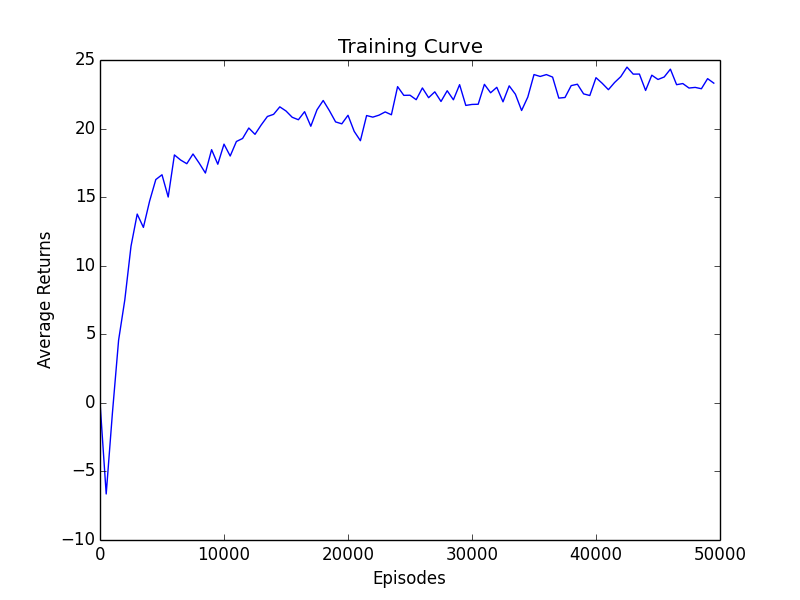
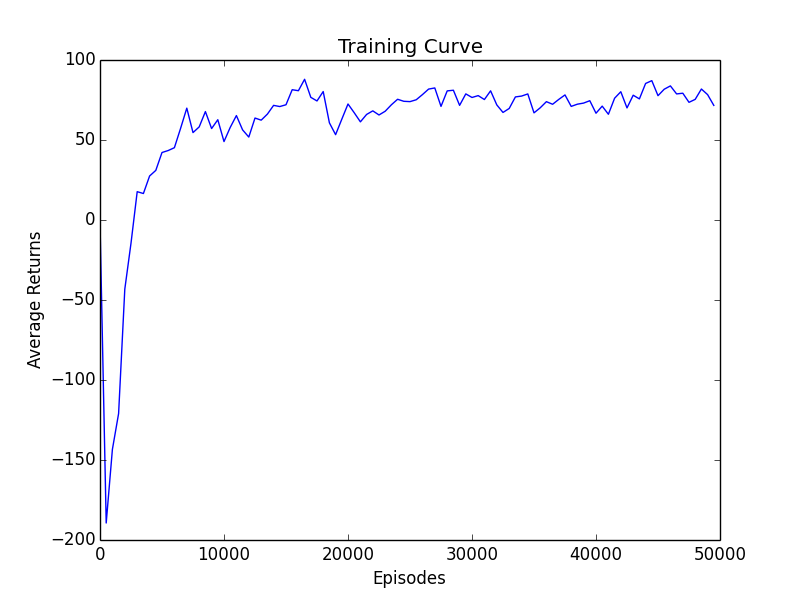
p5 almost

diff --git a/A4/Soln/tictactoe.py b/A4/Soln/tictactoe.py
@@ -12,6 +12,7 @@ import torch.distributions
 from torch.autograd import Variable
 import matplotlib.pyplot as plt
 
+
 class Environment(object):
     """
     The Tic-Tac-Toe Environment
@@ -118,7 +119,7 @@ class Policy(nn.Module):
             nn.Linear(input_size, hidden_size),
             nn.ReLU(),
             nn.Linear(hidden_size, output_size),
-            nn.Softmax(dim = output_size)
+            nn.Softmax()
         )
 
     def forward(self, x):
@@ -191,14 +192,14 @@ def get_reward(status):
     """Returns a numeric given an environment status."""
     return {
         Environment.STATUS_VALID_MOVE: 5,  # TODO
-        Environment.STATUS_INVALID_MOVE: -5,
-        Environment.STATUS_WIN: 10,
-        Environment.STATUS_TIE: 1,
-        Environment.STATUS_LOSE: -10
+        Environment.STATUS_INVALID_MOVE: -50,
+        Environment.STATUS_WIN: 100,
+        Environment.STATUS_TIE: -10,
+        Environment.STATUS_LOSE: -100
     }[status]
 
 
-def train(policy, env, lr = 0.001, gamma = 1.0, max_iter = 50000, plot = False):
+def train(policy, env, lr = 0.0005, gamma = 0.9, max_iter = 50000, verbose = True, plot = False, save_policy = True):
     """Train policy gradient."""
     optimizer = optim.Adam(policy.parameters(), lr = lr)
     scheduler = torch.optim.lr_scheduler.StepLR(
@@ -219,6 +220,7 @@ def train(policy, env, lr = 0.001, gamma = 1.0, max_iter = 50000, plot = False):
     for i_episode in range(max_iter):
         saved_rewards = []
         saved_logprobs = []
+
         state = env.reset()
         done = False
         while not done:
@@ -235,14 +237,17 @@ def train(policy, env, lr = 0.001, gamma = 1.0, max_iter = 50000, plot = False):
 
         if i_episode % log_interval == 0:
             avg_return = running_reward / log_interval
-            print('Episode {}\tAverage return: {:.2f}'.format(i_episode, avg_return))
+            if verbose:
+                results = play_games(env, policy)
+                print('Episode {}\t'
+                      'Average return: {:.2f}'
+                      '\tInvalid: {:.4f}'.format(i_episode, avg_return, results[-1]))
             running_reward = 0
             iters.append(i_episode)
             avg_returns.append(avg_return)
 
-        if i_episode % log_interval == 0:
-            torch.save(policy.state_dict(),
-                       "ttt/policy-%d.pkl" % i_episode)
+            if save_policy:
+                torch.save(policy.state_dict(), "ttt/policy-%d.pkl" % i_episode)
 
         if i_episode % 1 == 0:  # batch_size
             optimizer.step()
@@ -250,6 +255,8 @@ def train(policy, env, lr = 0.001, gamma = 1.0, max_iter = 50000, plot = False):
             optimizer.zero_grad()
 
     print("{} Done Training {}".format("=" * 20, "=" * 20))
+    result = play_games(env, policy, 1000)
+    print("Result: {} / {} / {}".format(result[0], result[1], result[2]))
 
     if plot:
         plt.plot(iters, avg_returns, color = "b")
@@ -257,7 +264,7 @@ def train(policy, env, lr = 0.001, gamma = 1.0, max_iter = 50000, plot = False):
         plt.xlabel("Episodes")
         plt.title("Training Curve")
         plt.savefig("./Report/images/5/training_curve.png")
-        plt.show()
+        # plt.show()
     return
 
 
@@ -276,7 +283,7 @@ def load_weights(policy, episode):
     policy.load_state_dict(weights)
 
 
-def get_policy_result(env, policy, rounds):
+def play_games(env, policy, rounds = 100, visualize = False):
     """
     Get the policy results by playing rounds and count the results
     :param env: the environment
@@ -289,6 +296,7 @@ def get_policy_result(env, policy, rounds):
     :rtype: tuple
     """
     num_policy_win, num_rand_win, num_tie = 0, 0, 0
+    total_move, invalid_move = 0, 0
 
     for i in range(rounds):
         state = env.reset()
@@ -296,6 +304,11 @@ def get_policy_result(env, policy, rounds):
         while not done:
             action, logprob = select_action(policy, state)
             state, status, done = env.play_against_random(action)
+            if status == Environment.STATUS_INVALID_MOVE:
+                invalid_move += 1
+            total_move += 1
+            if visualize:
+                env.render()
 
         if status == Environment.STATUS_WIN:
             num_policy_win += 1
@@ -307,7 +320,7 @@ def get_policy_result(env, policy, rounds):
             print("Wrong status: {}".format(status))
             return
 
-    return num_policy_win, num_rand_win, num_tie
+    return num_policy_win, num_rand_win, num_tie, invalid_move / float(total_move)
 
 
 # ==================== Answers ====================
@@ -335,26 +348,52 @@ def part3():
     doctest.testmod()
     return
 
+
 def part4():
     return
 
 
-def part5():
-    train(policy, env, gamma = 1.0, max_iter = 50000, plot = True)
+def part5(env, policy):
+    # a
+    train(policy, env, gamma = 0.9, max_iter = 50000, plot = True)
+    # b
+    best = []
+    for hidden_dim in [32, 64, 128, 256]:
+        test_env = Environment()
+        test_policy = Policy(hidden_size = hidden_dim)
+        train(test_policy, test_env, gamma = 0.9, max_iter = 50000, verbose = False,
+              plot = False, save_policy = False)
+        results = play_games(test_env, test_policy, rounds = 1000)
+        best.append(results)
+    print([32, 64, 128, 256], best)
+    # c
+    # train(policy, env, gamma = 0.9, max_iter = 50000, plot = True)
+    # d
+    results = play_games(env, policy, rounds = 100)
+    print("win: {}, lose: {}, tie: {}", results[0], results[1], results[2])
+    for i in range(5):
+        print("{} Game {} {}".format("=" * 20, i, "=" * 20))
+        play_games(env, policy, rounds = 1, visualize = True)
     return
 
 
 if __name__ == '__main__':
     import sys
 
-    policy = Policy()
+    # Set seeds
+    np.random.seed(59)
+    random.seed(59)
+    torch.manual_seed(59)
+
+    # Initialize env and policy
     env = Environment()
+    policy = Policy()
 
     # part1(env)
     # part2()
     # part3()
     # part4()
-    part5()
+    part5(env, policy)
 
     # if len(sys.argv) == 1:
     #     # `python tictactoe.py` to train the agent

diff --git a/A4/Soln/Report/tictactoe.tex b/A4/Soln/Report/tictactoe.tex
@@ -257,6 +257,7 @@ def compute_returns(rewards, gamma = 1.0):
 	\begin{homeworkProblem}
 		%		\noindent \textit{Question}
 		\begin{enumerate}
+%			TODO
 			\item 
 			See tictactoe.py for implementations.
 			
@@ -285,7 +286,7 @@ def compute_returns(rewards, gamma = 1.0):
 		%		\noindent \textit{Question}
 		\begin{enumerate}
 			\item 
-			The training curve is shown in Fig.\ref{fig:5}. The hyperparameters are as follows: lr = 0.001, gamma = 1.0, max\_iter = 50000
+			The training curve is shown in Fig.\ref{fig:5}. The hyperparameters are as follows: lr = 0.001, gamma = 0.9, max\_iter = 50000. We set gamma to 0.9 to get a smoother and quicker result
 		
 			\begin{figure}[!ht]
 				\centering
@@ -295,10 +296,11 @@ def compute_returns(rewards, gamma = 1.0):
 			\end{figure}
 			
 			\item 
+			The hidden dimension was tested on values [32, 64, 128, 256]. Their results were calculated using function get\_policy\_result. The best-performing dimension was {}. It has {} wins out of 1000 round.
 			
 			
 			\item 
-			
+			The policy starts to understand not to make invalid moves at around the {1200}th iteration.  To get this result, we let the policy play with random for 100 times at each log point and count the number of invalid move and total move and thus calculate the percentage of the invalid move the policy makes. After the {1200}th iteration, all iterations' invalid move rates are less than 1\%, so the policy understands not to make invalid moves.
 			
 			\item 
 		\end{enumerate}
